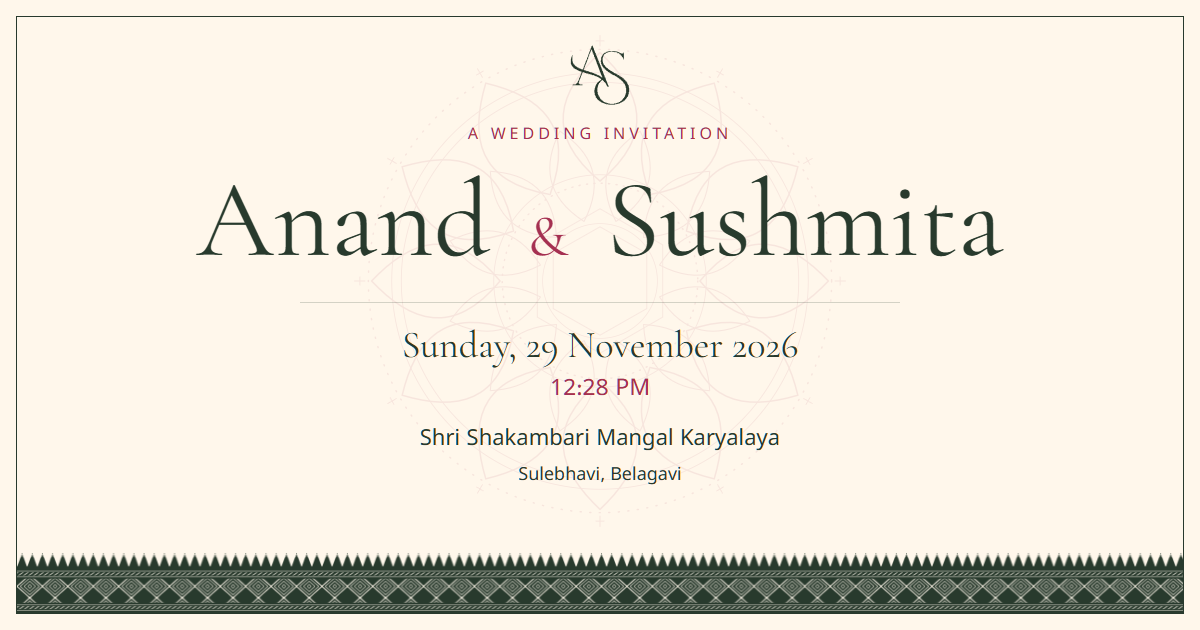
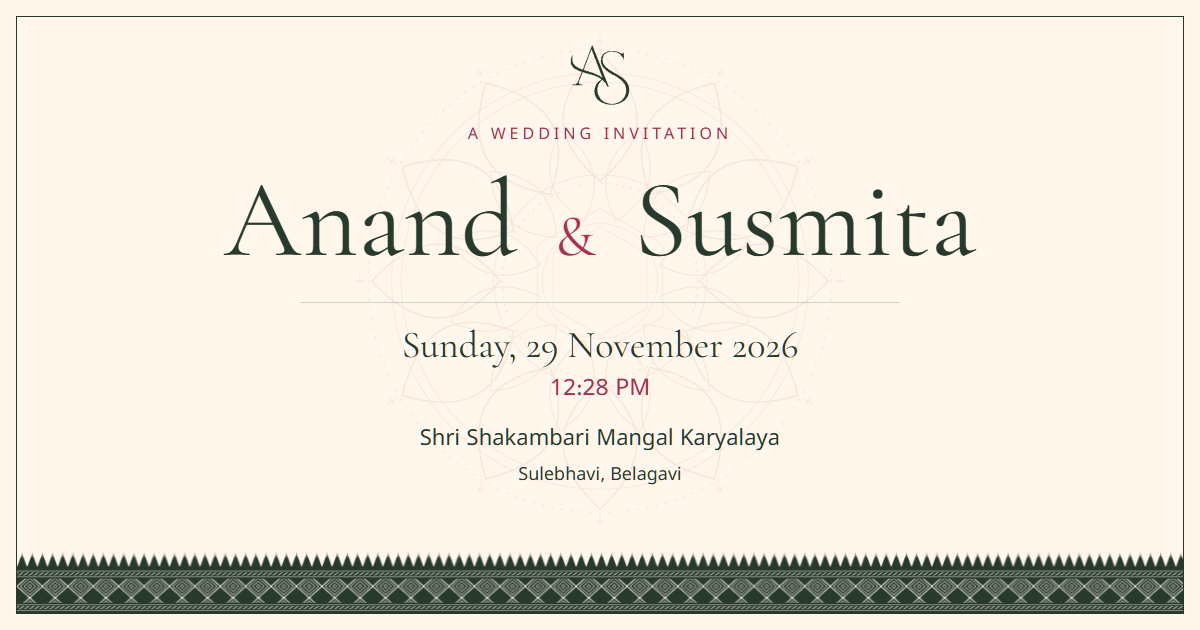
Correct Susmita spelling and refine relationship labels

Changed region(s): [[0.1542, 0.2714, 0.8325, 0.4222]]

diff --git a/src/Invitation.jsx b/src/Invitation.jsx
@@ -8,7 +8,7 @@ export default function Invitation({ countdown, menuOpen, setMenuOpen, invitatio
     <a href="#main" className="skip-link">Skip to content</a>
     <header className="site-header">
       <div className="header-inner">
-        <a className="brand" href="#home" aria-label="Anand and Sushmita — home" onClick={closeMenu}><Monogram /></a>
+        <a className="brand" href="#home" aria-label="Anand and Susmita — home" onClick={closeMenu}><Monogram /></a>
         <nav className={menuOpen ? 'navigation is-open' : 'navigation'} aria-label="Main navigation" id="main-navigation">
           <div className="nav-group"><a href="#couple" onClick={closeMenu}>The Couple</a><a href="#muhurtha" onClick={closeMenu}>The Muhurta</a></div>
           <div className="nav-group"><a href="#venue" onClick={closeMenu}>The Venue</a><button className="nav-invitation" onClick={() => { setInvitationOpen(true); closeMenu(); }}>Invitation Card <Icon name="download" size={16} /></button></div>
@@ -24,7 +24,7 @@ export default function Invitation({ countdown, menuOpen, setMenuOpen, invitatio
         <div className="hero-copy">
           <div className="blessings"><Ganesha /><p><span>With Lord Ganesha’s blessings</span></p></div>
           <p className="eyebrow hero-eyebrow">A Wedding Invitation</p>
-          <h1 id="couple-names"><span>Anand</span><span className="names-join"><i />and<i /></span><span>Sushmita</span></h1>
+          <h1 id="couple-names"><span>Anand</span><span className="names-join"><i />and<i /></span><span>Susmita</span></h1>
           <p className="hero-message">Two hearts. One sacred bond.</p>
           <div className="hero-date"><span>29 November 2026</span><i /><span>Sunday</span><i /><span>12:28 PM</span></div>
           <a className="button button-primary" href="#muhurtha">View Wedding Details <Icon name="arrow" size={19} /></a>
@@ -36,7 +36,7 @@ export default function Invitation({ countdown, menuOpen, setMenuOpen, invitatio
         <div className="section-heading reveal"><Kolam className="heading-ornament" /><p className="eyebrow">With the blessings of our elders</p><h2 id="invitation-title">A Union Rooted in Love</h2><p className="invitation-intro">Kartika Krishna Paksha · Shaka 1948 · Parabhava Samvatsara</p></div>
         <div className="couple-details reveal">
           <article className="person person-groom"><span className="person-label">The Groom</span><h3><small>Chi.</small> Anand</h3><p>Mrs. Hema and<br />Mr. Vishnu Lakkappa Sullad</p><p className="person-detail">Their beloved son</p><Kolam className="person-ornament" /></article>
-          <article className="person person-bride"><span className="person-label">The Bride</span><h3><small>Chi. Sou. Kan.</small> Sushmita</h3><p>Mrs. Poornima and<br />Mr. Ramaling Ramappa Pitagi</p><p className="person-detail">Their third daughter</p><Kolam className="person-ornament" /></article>
+          <article className="person person-bride"><span className="person-label">The Bride</span><h3><small>Chi. Sou. Kan.</small> Susmita</h3><p>Mrs. Poornima and<br />Mr. Ramaling Ramappa Pitagi</p><p className="person-detail">Their third daughter</p><Kolam className="person-ornament" /></article>
           <figure className="couple-portrait"><div className="portrait-window"><div className="portrait-frame"><img src="/images/wedding-couple-pink-green.png" alt="A South Indian bride and groom in traditional attire, holding hands among flowers" width="1254" height="1254" loading="lazy" decoding="async" /></div></div></figure>
         </div>
         <p className="invitation-note reveal">Join us with your family and bless our new beginning.</p>
@@ -61,8 +61,8 @@ export default function Invitation({ countdown, menuOpen, setMenuOpen, invitatio
 
     </main>
 
-    <footer className="site-footer"><a href="#home" aria-label="Back to home"><Monogram className="footer-monogram" /></a><p className="footer-welcome">Your presence is our happiness.</p><a href="#home" className="footer-names">Anand <span>and</span> Sushmita</a><button className="replay-opening" onClick={onReplayOpening}><Icon name="arrow" size={14} />Open the invitation again</button><TextileBorder /></footer>
+    <footer className="site-footer"><a href="#home" aria-label="Back to home"><Monogram className="footer-monogram" /></a><p className="footer-welcome">Your presence is our happiness.</p><a href="#home" className="footer-names">Anand <span>and</span> Susmita</a><button className="replay-opening" onClick={onReplayOpening}><Icon name="arrow" size={14} />Open the invitation again</button><TextileBorder /></footer>
 
-    <dialog className="invitation-dialog" ref={dialogRef} onCancel={() => setInvitationOpen(false)} onClose={() => setInvitationOpen(false)} onClick={(event) => { if (event.target === event.currentTarget) setInvitationOpen(false); }} aria-labelledby="dialog-title"><div className="dialog-content"><div className="dialog-header"><h2 id="dialog-title">Original Invitation · Kannada</h2><button className="icon-button" aria-label="Close invitation card" onClick={() => setInvitationOpen(false)}><Icon name="close" /></button></div>{invitationOpen && <img src="/images/original-invitation.jpeg" alt="The original printed Kannada wedding invitation for Anand and Sushmita" width="1204" height="1600" />}<a href="/images/original-invitation.jpeg" download="anand-sushmita-invitation.jpeg" className="button button-primary"><Icon name="download" size={18} />Download Invitation</a></div></dialog>
+    <dialog className="invitation-dialog" ref={dialogRef} onCancel={() => setInvitationOpen(false)} onClose={() => setInvitationOpen(false)} onClick={(event) => { if (event.target === event.currentTarget) setInvitationOpen(false); }} aria-labelledby="dialog-title"><div className="dialog-content"><div className="dialog-header"><h2 id="dialog-title">Original Invitation · Kannada</h2><button className="icon-button" aria-label="Close invitation card" onClick={() => setInvitationOpen(false)}><Icon name="close" /></button></div>{invitationOpen && <img src="/images/original-invitation.jpeg" alt="The original printed Kannada wedding invitation for Anand and Susmita" width="1204" height="1600" />}<a href="/images/original-invitation.jpeg" download="anand-susmita-invitation.jpeg" className="button button-primary"><Icon name="download" size={18} />Download Invitation</a></div></dialog>
   </>;
 }

diff --git a/index.html b/index.html
@@ -4,26 +4,26 @@
     <meta charset="UTF-8" />
     <meta name="viewport" content="width=device-width, initial-scale=1.0" />
     <meta name="theme-color" content="#a53051" />
-    <meta name="description" content="Join Anand and Sushmita for their wedding on Sunday, 29 November 2026 at 12:28 PM. Shri Shakambari Mangal Karyalaya, Hosakeri Galli, Sulebhavi, Belagavi." />
-    <title>Anand and Sushmita | Wedding Invitation</title>
+    <meta name="description" content="Join Anand and Susmita for their wedding on Sunday, 29 November 2026 at 12:28 PM. Shri Shakambari Mangal Karyalaya, Hosakeri Galli, Sulebhavi, Belagavi." />
+    <title>Anand and Susmita | Wedding Invitation</title>
     <link rel="canonical" href="https://anandwedsusmita.vercel.app/" />
     <meta property="og:type" content="website" />
     <meta property="og:locale" content="en_IN" />
-    <meta property="og:site_name" content="Anand and Sushmita" />
-    <meta property="og:title" content="Anand and Sushmita | 29 November 2026" />
+    <meta property="og:site_name" content="Anand and Susmita" />
+    <meta property="og:title" content="Anand and Susmita | 29 November 2026" />
     <meta property="og:description" content="Join us on Sunday, 29 November 2026 at 12:28 PM. Shri Shakambari Mangal Karyalaya, Sulebhavi, Belagavi." />
     <meta property="og:url" content="https://anandwedsusmita.vercel.app/" />
-    <meta property="og:image" content="https://anandwedsusmita.vercel.app/images/wedding-social-preview.png?v=20261108" />
-    <meta property="og:image:secure_url" content="https://anandwedsusmita.vercel.app/images/wedding-social-preview.png?v=20261108" />
+    <meta property="og:image" content="https://anandwedsusmita.vercel.app/images/wedding-social-preview.png?v=20261109" />
+    <meta property="og:image:secure_url" content="https://anandwedsusmita.vercel.app/images/wedding-social-preview.png?v=20261109" />
     <meta property="og:image:type" content="image/png" />
     <meta property="og:image:width" content="1200" />
     <meta property="og:image:height" content="630" />
-    <meta property="og:image:alt" content="Anand and Sushmita's wedding invitation, Sunday 29 November 2026 at 12:28 PM, Shri Shakambari Mangal Karyalaya, Sulebhavi." />
+    <meta property="og:image:alt" content="Anand and Susmita's wedding invitation, Sunday 29 November 2026 at 12:28 PM, Shri Shakambari Mangal Karyalaya, Sulebhavi." />
     <meta name="twitter:card" content="summary_large_image" />
-    <meta name="twitter:title" content="Anand and Sushmita | 29 November 2026" />
+    <meta name="twitter:title" content="Anand and Susmita | 29 November 2026" />
     <meta name="twitter:description" content="Join us for our wedding at Shri Shakambari Mangal Karyalaya, Sulebhavi, Belagavi." />
-    <meta name="twitter:image" content="https://anandwedsusmita.vercel.app/images/wedding-social-preview.png?v=20261108" />
-    <meta name="twitter:image:alt" content="Anand and Sushmita, 29 November 2026, 12:28 PM, Sulebhavi, Belagavi." />
+    <meta name="twitter:image" content="https://anandwedsusmita.vercel.app/images/wedding-social-preview.png?v=20261109" />
+    <meta name="twitter:image:alt" content="Anand and Susmita, 29 November 2026, 12:28 PM, Sulebhavi, Belagavi." />
     <link rel="icon" type="image/svg+xml" href="/favicon.svg?v=as-reference" />
   </head>
   <body>

diff --git a/src/stationery.css b/src/stationery.css
@@ -79,7 +79,7 @@ img { display: block; max-width: 100%; }
 .person h3 { font-size: 2.75rem; line-height: 1.4; color: var(--rose); margin: 8px 0 16px; overflow-wrap: anywhere; }
 .person h3 small { display: inline; color: var(--deep); font-size: .42em; line-height: inherit; vertical-align: baseline; }
 .person > p { font-size: .8125rem; line-height: 1.7; overflow-wrap: anywhere; }
-.person > .person-detail { font-size: .75rem; line-height: 1.6; color: var(--muted); margin-top: 8px; }
+.person > .person-detail { font-family: var(--font-display); font-size: .6875rem; font-style: italic; line-height: 1.6; color: var(--muted); margin-top: 8px; }
 .person-ornament { width: 33px; height: 33px; color: var(--deep); margin: 24px auto 0; }
 .couple-portrait { grid-area: portrait; min-width: 0; margin: 0; }
 .portrait-frame { padding: 0; border: 0; position: relative; background: var(--ivory); }
@@ -201,7 +201,7 @@ img { display: block; max-width: 100%; }
   .person h3 { font-size: clamp(1.5rem, 6.4vw, 1.9375rem); line-height: 1.3; margin: 6px 0 8px; }
   .person h3 small { font-size: .36em; }
   .person > p { font-size: .75rem; line-height: 1.65; }
-  .person > .person-detail { font-size: .75rem; line-height: 1.5; margin-top: 6px; }
+  .person > .person-detail { line-height: 1.5; margin-top: 6px; }
   .person-ornament { display: none; }
   .couple-portrait { min-height: 180px; height: 100%; width: 100%; }
   .portrait-window { display: grid; place-items: center; container-type: size; min-height: 180px; height: 100%; width: 100%; }

diff --git a/src/Ornaments.jsx b/src/Ornaments.jsx
@@ -16,7 +16,7 @@ export function Icon({ name, size = 20, ...props }) {
 }
 
 export function Monogram({ className = '' }) {
-  return <img className={`monogram ${className}`} src="/images/as-monogram.svg" alt="Anand and Sushmita monogram" width="150" height="150" />;
+  return <img className={`monogram ${className}`} src="/images/as-monogram.svg" alt="Anand and Susmita monogram" width="150" height="150" />;
 }
 
 export function TextileBorder({ className = '' }) {

diff --git a/src/main.jsx b/src/main.jsx
@@ -3,6 +3,7 @@ import { createRoot } from 'react-dom/client';
 import '@fontsource/noto-sans-kannada/latin-400.css';
 import '@fontsource/noto-sans-kannada/latin-500.css';
 import '@fontsource/cormorant-garamond/latin-400.css';
+import '@fontsource/cormorant-garamond/latin-400-italic.css';
 import Invitation from './Invitation';
 import InvitationOpening from './InvitationOpening';
 import './stationery.css';

diff --git a/docs/social-preview.html b/docs/social-preview.html
@@ -29,7 +29,7 @@
   <main>
     <img class="logo" src="/images/as-monogram.svg" alt="AS monogram" />
     <p class="eyebrow">A Wedding Invitation</p>
-    <h1>Anand <span>&amp;</span> Sushmita</h1>
+    <h1>Anand <span>&amp;</span> Susmita</h1>
     <div class="rule"></div>
     <p class="date">Sunday, 29 November 2026</p>
     <p class="time">12:28 PM</p>

diff --git a/share/invitation-prompt.md b/share/invitation-prompt.md
@@ -2,7 +2,7 @@
 
 Tool: built-in imagegen.
 
-+Use case: ads-marketing.
+Use case: ads-marketing.
 Asset type: a finished, shareable English wedding invitation image for WhatsApp, portrait 2:3 aspect ratio, preferably 1536 x 2304 pixels. This is the invitation artwork itself, edge to edge, not a photographed card or mockup.
 
 Input references:
@@ -21,7 +21,7 @@ Chi. Anand
 Son of Mrs. Hema and
 Mr. Vishnu Lakkappa Sullad
 and
-Chi. Sou. Kan. Sushmita
+Chi. Sou. Kan. Susmita
 Daughter of Mrs. Poornima and
 Mr. Ramaling Ramappa Pitagi
 SUNDAY, 29 NOVEMBER 2026
@@ -31,5 +31,5 @@ Hosakeri Galli, Sulebhavi,
 Belagavi, Karnataka.
 Your presence and blessings mean the world to us.
 
-Spelling invariants: Sushmita = S U S H M I T A; Lakkappa = L A K K A P P A; Sullad = S U L L A D; Pitagi = P I T A G I; Shakambari = S H A K A M B A R I; Hosakeri = H O S A K E R I.
+Spelling invariants: Susmita = S U S M I T A; Lakkappa = L A K K A P P A; Sullad = S U L L A D; Pitagi = P I T A G I; Shakambari = S H A K A M B A R I; Hosakeri = H O S A K E R I.
 Do not introduce Shantadevi, Lakshman, Sulkar, Otagi, Sharadamba or Hosapete. No hosts list, RSVP, invented details, website URL, QR code, watermark, app interface, buttons, drop shadows, envelope, tabletop or other mockup setting. English text and English digits only. Output one complete high-quality invitation card.

diff --git a/share/name-correction-prompt.md b/share/name-correction-prompt.md
@@ -1,0 +1,5 @@
+# Invitation name correction
+
+Tool: built-in imagegen, editing the existing card.
+
+Use case: text-localization. Edit the supplied wedding invitation card image. Change ONLY the bride's first name to 'Susmita', spelled S U S M I T A, on the large pink bride-name line. That line must read 'Chi. Sou. Kan. Susmita', with the honorific smaller and immediately before the name, exactly in the current style. Preserve the existing font, size, weight, color, placement, baseline, and alignment of the bride-name line, only adjusting the word width naturally for the removed letter. Keep absolutely everything else unchanged: the AS monogram silhouette, border, paper texture, layout, all other wording and punctuation, the parents' names, date, time, venue, address, lotus ornaments, couple illustration, colors, and image dimensions. Do not add, remove, reword or restyle anything else. Flat portrait 1024 x 1536 invitation artwork, opaque background, no mockup.

diff --git a/README.md b/README.md
@@ -1,6 +1,6 @@
-# Anand and Sushmita — Wedding Invitation
+# Anand and Susmita — Wedding Invitation
 
-An English React wedding invitation for **29 November 2026, 12:28 p.m.**, at Shri Shakambari Mangal Karyalaya, Hosakeri Galli, Sulebhavi, Belagavi. The bride's English spelling, **Sushmita**, and family surnames **Sullad** and **Pitagi** are confirmed by the owner.
+An English React wedding invitation for **29 November 2026, 12:28 p.m.**, at Shri Shakambari Mangal Karyalaya, Hosakeri Galli, Sulebhavi, Belagavi. The bride's English spelling, **Susmita**, and family surnames **Sullad** and **Pitagi** are confirmed by the owner.
 
 ## Run locally
 
